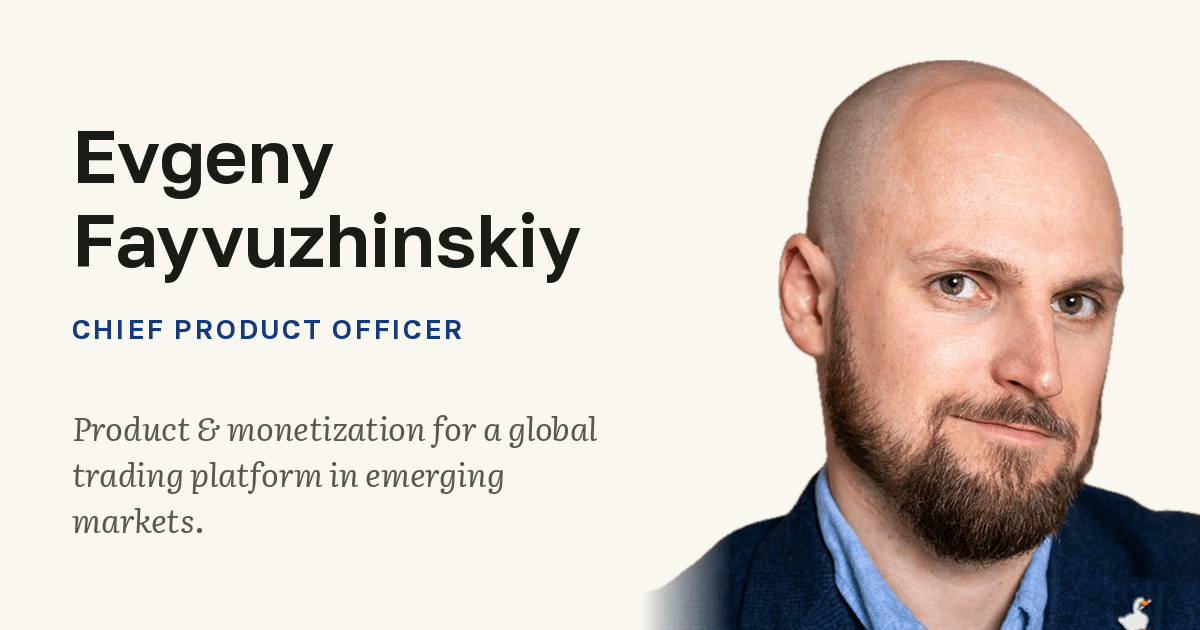
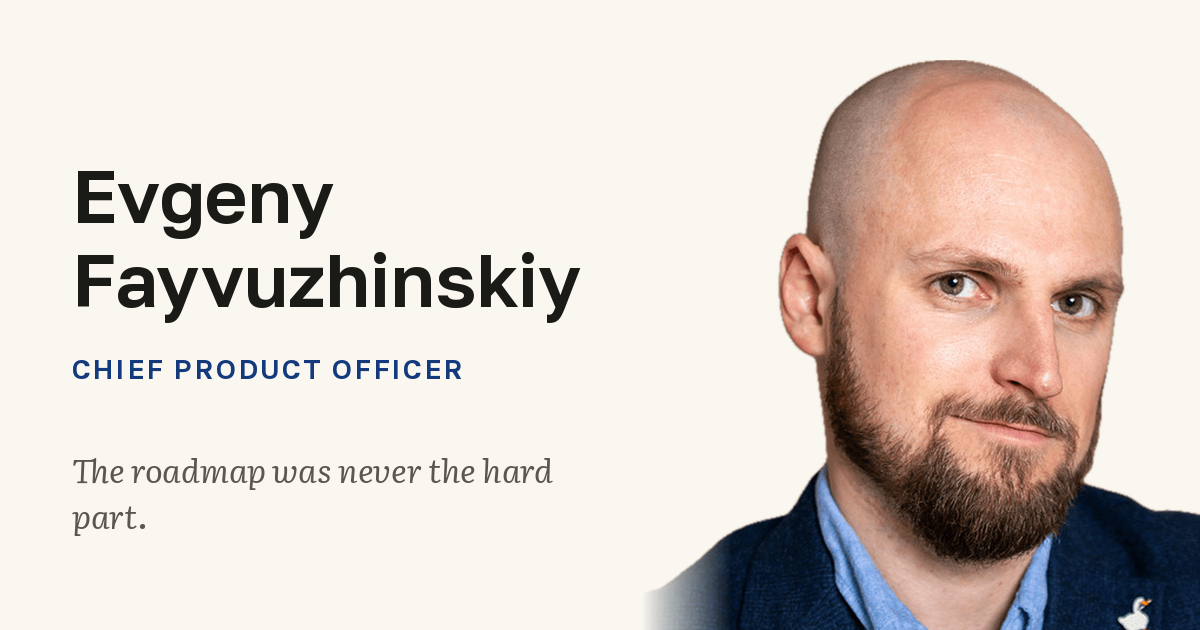
Positioning: lead with leadership + operating-framework, not scope descriptor
Reframes hero + throughline (EN+RU) after competitive analysis of three
predecessor CPOs and research on positioning a strong leader amid
inherited/market-driven negative trends. Outcome-silent by design:
leads on management, the company-wide decision framework he authored,
business fluency, and calibrated command — no results claim (survives
"why are the numbers down?"), no CEO-turf ("run the product/org", not
"run the business").

- Hero: scope descriptor -> POV line ("The roadmap was never the hard
  part..."); domain moved to meta row to keep placeability
- Throughline: business-side origin + org/operating-model strength +
  authored decision framework + trust-based leadership + candor stance
- OG card tagline -> trimmed hero hook; regenerated truecolor

diff --git a/ru/index.html b/ru/index.html
@@ -156,17 +156,18 @@ footer{margin-top:var(--s9); border-top:1px solid var(--hairline); padding-top:v
         <img class="portrait" src="/headshot.png" width="512" height="503" alt="Евгений Файвужинский" fetchpriority="high" decoding="async">
         <div class="hero-name"><h1>Евгений Файвужинский</h1><p class="role-title">Chief Product Officer</p></div>
       </div>
-      <p class="lead">Продукт и монетизация для торговой платформы на развивающихся рынках.</p>
-      <p class="meta"><span class="mi">Лимасол, Кипр</span></p>
+      <p class="lead">Роадмап никогда не был трудной частью. Я веду орг, которая его решает, &mdash; и построил фреймворк, по которому решает вся компания.</p>
+      <p class="meta"><span class="mi">Глобальная торговая платформа, развивающиеся рынки</span><span class="sep">&middot;</span><span class="mi">Лимасол, Кипр</span></p>
     </div>
   </header>
 
   <section class="section">
     <div class="rail"><span class="num tnum">01</span><h2 class="kicker">Профиль</h2></div>
     <div class="content">
-      <p>Я продуктовый руководитель, выросший из количественной стороны финтеха. Восемь лет в Space307, глобальной торговой платформе на развивающихся рынках Азии и Ближнего Востока, я прошёл путь от прайсинга торговых инструментов до управления продуктом. По дороге я построил функцию монетизации: прайсинг и риск инструментов, экономику глобальной партнёрской сети и удержание, рассчитанное держаться годами, а не давать всплеск.</p>
-      <p>Самое трудное было не в математике. Дело было в людях: нанимать лидов, которые давно переросли роли, что я им дал, перестраивать команды, переводить департамент на более быстрый, evidence-first способ работы. Почти ничего из этого не держалось на власти. Оно держалось на доверии команд, которые мне не подчинялись, и на готовности, что меня переубедят.</p>
-      <p>В кресло CPO я приношу суждение, которому научили восемь лет в цифрах: чутьё на то, какие продуктовые ставки окупаются в экономике, и привычку строить команды, которые принимают эти решения без меня в комнате.</p>
+      <p>Я продуктовый руководитель, выросший из бизнес-стороны финтеха. За восемь лет в Space307 &mdash; глобальной торговой платформе на развивающихся рынках Азии и Ближнего Востока &mdash; я прайсил риск и построил функцию монетизации ещё до того, как возглавил продукт, поэтому читаю продуктовое решение через его экономику, а не только через роадмап.</p>
+      <p>Моя сила &mdash; в том, что не роадмап: в орге. Я перестроил то, как решает мой департамент &mdash; быстрее, дешевле, evidence-first, &mdash; и написал операционный фреймворк, по которому вся компания выбирает, сколько строгости заслуживает каждая ставка.</p>
+      <p>Я сформировал стратегию, по которой компания работает, и веду за счёт того, что двигаю людей, которые мне не подчиняются, &mdash; доверием, не властью.</p>
+      <p>Я не путаю движение с прогрессом и предпочту видеть проблему ясно, чем быть на её счёт оптимистом.</p>
     </div>
   </section>
 

diff --git a/index.html b/index.html
@@ -156,17 +156,18 @@ footer{margin-top:var(--s9); border-top:1px solid var(--hairline); padding-top:v
         <img class="portrait" src="/headshot.png" width="512" height="503" alt="Evgeny Fayvuzhinskiy" fetchpriority="high" decoding="async">
         <div class="hero-name"><h1>Evgeny Fayvuzhinskiy</h1><p class="role-title">Chief Product Officer</p></div>
       </div>
-      <p class="lead">Product &amp; monetization for a global trading platform in emerging markets.</p>
-      <p class="meta"><span class="mi">Limassol, Cyprus</span></p>
+      <p class="lead">The roadmap was never the hard part. I lead the org that decides it &mdash; and built the framework the company decides by.</p>
+      <p class="meta"><span class="mi">Global trading platform, emerging markets</span><span class="sep">&middot;</span><span class="mi">Limassol, Cyprus</span></p>
     </div>
   </header>
 
   <section class="section">
     <div class="rail"><span class="num tnum">01</span><h2 class="kicker">Profile</h2></div>
     <div class="content">
-      <p>I&rsquo;m a product executive who came up the quantitative side of fintech. Over eight years at Space307, a global trading platform serving emerging markets across Asia and the Middle East, I grew from pricing trading instruments to running product. Along the way I built the monetization function: instrument pricing and risk, the economics of a global partner network, and retention designed to hold up over years rather than spike.</p>
-      <p>The hardest part was never the math. It was the people: hiring leads who&rsquo;ve since outgrown the roles I gave them, reshaping teams, and moving a department to a faster, evidence-first way of working. Almost none of it ran on authority. It ran on trust earned from teams that didn&rsquo;t report to me, and on being willing to be argued out of my own plan.</p>
-      <p>What I bring to the CPO seat is the judgment eight years in the numbers taught me: a feel for which product bets pay off in the economics, and the habit of building teams that can make those calls without me in the room.</p>
+      <p>I&rsquo;m a product executive who came up on the business side of fintech. Over eight years at Space307 &mdash; a global trading platform serving emerging markets across Asia and the Middle East &mdash; I priced the risk and built the monetization function before I ran product, so I read a product decision through its economics, not just its roadmap.</p>
+      <p>My strength is the part that isn&rsquo;t the roadmap: the org. I rebuilt how my department decides &mdash; faster, cheaper, evidence-first &mdash; and authored the operating framework the wider company now uses to choose how much rigor each bet deserves.</p>
+      <p>I shaped the strategy the company runs on, and I lead by moving people I don&rsquo;t control &mdash; by trust, not authority.</p>
+      <p>I don&rsquo;t confuse motion with progress, and I&rsquo;d rather see a problem clearly than be optimistic about it.</p>
     </div>
   </section>
 

diff --git a/build/make_assets.py b/build/make_assets.py
@@ -191,7 +191,7 @@ def build_og():
     role_f = ImageFont.truetype(GOLOS, 27)
     tag_f  = ImageFont.truetype(LIT_IT, 33)
 
-    y = 110
+    y = 150
     for line in wrap(d, "Evgeny Fayvuzhinskiy", name_f, 540):
         d.text((PADX, y), line, font=name_f, fill=INK)
         y += 84
@@ -202,8 +202,8 @@ def build_og():
     for ch in role:
         d.text((x, y), ch, font=role_f, fill=ACCENT)
         x += d.textlength(ch, font=role_f) + 2.4
-    y += 90
-    for line in wrap(d, "Product & monetization for a global trading platform in emerging markets.", tag_f, 540):
+    y += 92
+    for line in wrap(d, "The roadmap was never the hard part.", tag_f, 560):
         d.text((PADX, y), line, font=tag_f, fill=MUTED)
         y += 46
 
